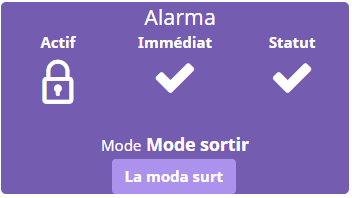
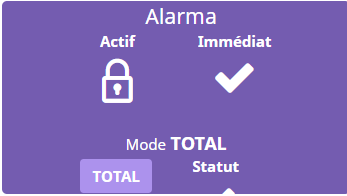
Jeedom telegram

diff --git a/gatsby-node.js b/gatsby-node.js
@@ -50,7 +50,7 @@ exports.createPages = async ({ graphql, actions }) => {
       allMarkdownRemark(limit: 2000) {
         edges {
           node {
-            excerpt
+            excerpt(pruneLength:280)
             timeToRead
             frontmatter {
               title

diff --git a/src/templates/post.tsx b/src/templates/post.tsx
@@ -335,7 +335,7 @@ export const query = graphql`
     markdownRemark(fields: { slug: { eq: $slug } }) {
       html
       htmlAst
-      excerpt
+      excerpt(pruneLength: 280)
       timeToRead
       frontmatter {
         title

diff --git a/src/content/jeedom-alarm.md b/src/content/jeedom-alarm.md
@@ -4,11 +4,21 @@ title: Jeedom - Alarm scenario
 author: xescuder
 tags:
   - domotics
-date: '2012-08-20T15:11:55.000Z'
+date: '2019-01-12T15:11:55.000Z'
 ---
-I've a Raspberry used for domotics (with a Razberry). One of my needs what's how to set an alarm using a Fibaro Presence Sensor and a Neocoolcam Siren. I'm going to explain how to do it!
+One month ago I started to build my domotic center with Jeedom. This tutorial is to show how you can set an alarm with the next equipments:
 
-Prerequisites: If you want to see how to setup Telegram for communication please read []()
+- [Raspberry](https://www.amazon.es/gp/product/B07BDR5PDW/ref=ppx_yo_dt_b_asin_title_o01__o00_s01?ie=UTF8&psc=1)
+- [Razberry](https://www.amazon.es/gp/product/B00BL9QFH6/ref=ppx_yo_dt_b_asin_title_o01__o00_s00?ie=UTF8&psc=1)
+- [Fibaro Presence Sensor](https://www.amazon.es/gp/product/B01CPR7VX4/ref=ppx_yo_dt_b_asin_title_o01__o00_s01?ie=UTF8&psc=1) 
+- [Neocoolcam Siren](https://es.aliexpress.com/item/NEO-COOLCAM-Z-wave-Wireless-Siren-Alarm-Sensor-Compatible-with-Z-wave-Plus-Sensor-Alarm-Home/32810518687.html). 
+- [Xiaomi Gateway](https://es.aliexpress.com/item/Nuevo-Xiaomi-Mijia-Gateway-2th-versi-n-Smart-Home-multifuncional-Home-Kit-para-Xiaomi-Mijia-puerta/32853412923.html)
+- [Xiaomi Door Window Sensors](https://es.aliexpress.com/item/Original-Xiaomi-Door-Window-Sensor-Pocket-Size-xiaomi-Smart-Home-Kits-Alarm-System-work-with-Gateway/32829391822.html)
+
+
+## Prerequisites
+
+First configure Telegram using tutorial [Jeedom-Telegram](./jeedom-telegram)
 
 ## Plugin installation
 
@@ -32,12 +42,12 @@ Prerequisites: If you want to see how to setup Telegram for communication please
 	- Press 'Ajouter mode'
 	- Create a name, for example 'Exit home'
 
-## Zones creation
+## Zone creation
 
-1. From menu 'Zones' define the zones that the alarm has to look out. For each zone:
+1. From menu 'Zones' define the zones that the alarm has to look out. I'm going to define a single zone 'TOTAL' for everything, but you can define any zones you need (perimeter, inside, ...):
 	
 	- Press 'Ajouter zone'
-	- Edit a name zone ('Living room zone', for example)
+	- Edit a name zone ('TOTAL', for example)
 	- Click 'Déclencheur' and select the equipment and the commande that defines trigger for presence or sensor
 
 	For example if you've a Fibaro Sensor like me:
@@ -48,26 +58,27 @@ Prerequisites: If you want to see how to setup Telegram for communication please
 
 	I set 'Activation' to 3 minutes for the zone near my exit door, but 0 minutes for window sensors.
 
-	- Press 'Action immediate' to define an action that has to be launched if previous condition is true. For example, if I want to beep the siren: 
+	Add as many equipments you need in Declencher (I've added after Fibaro Sensor other window sensors)
 
-		* Select the mode we've created ('Exit home')
-		* Enable the two checks
-		* On the second button select the commande to activate the alarm.
-		For example, for a Neocoolcam siren:
-
-		![Set siren on](/img/jeedom_alarm_action_immediate.png)
-
-	- Press 'Action' to create for example a Telegram message
+	- Press 'Action immediate' to create for example a Telegram message when previous conditions are true
 
 		* Press second button and select equipment 'Telegram'
 		* In 'Message field' enter a message like 'Intruder in living home'
 
-Repeat the process for each zone and equipment.
+	- Press 'Action' to define an action that will be launched after 'Activate' time. This is useful when we enter at home, so we need a time to disconnect alarm. For example, if I want to beep the siren: 
 
-1. Return to 'Mode' and add with button '+Zone' all created zones
+	* Select the mode we've created ('TOTAL')
+	* On the second button select the commande to activate the alarm.
+	
+	![Set siren on](/img/jeedom_alarm_action_immediate.png)
+
+	
+1. Return to 'Mode' and add with button '+Zone' the new created zone ('TOTAL')
 
 
 ## Configure messages to receive when alarm is activated and deactivated
+
+Finally we need to set if we need to receive some notification when we activate the alarm and when we deactivate. We're going to use Telegram:
 
 1. Select 'Activation OK' tab. Here we're going to set what to do when we activate the alarm
 

diff --git a/src/content/jeedom-telegram.md b/src/content/jeedom-telegram.md
@@ -1,0 +1,26 @@
+---
+layout: post
+title: Jeedom - Telegram
+author: xescuder
+tags:
+  - domotics
+date: '2019-01-12T12:11:55.000Z'
+---
+
+This tutorial explains how to setup Telegram for Jeedom communication (for example if we want to receive a message when an intrusion is detected).
+
+## Telegram bot creation
+
+1. Go to your telegram app and search 'botfather'
+1. Enter into botfather and enter /newbot
+1. Create bot with a name (for example 'Jeedom') and your username
+1. The bot will answer with a token that you need to copy
+
+
+## Jeedom setup
+
+1. Go to your jeedom web console and add plugin ‘Telegram’
+1. Press ‘Ajouter’ and set the name of the equipment (‘Telegram’)
+1. Copy the previous token in field 'Bot token'
+1. Checkbox 'Active' and 'Visible'
+1. From tab 'Commandes' press button 'Tester' on second line, and check that you've received a message on Telegram
